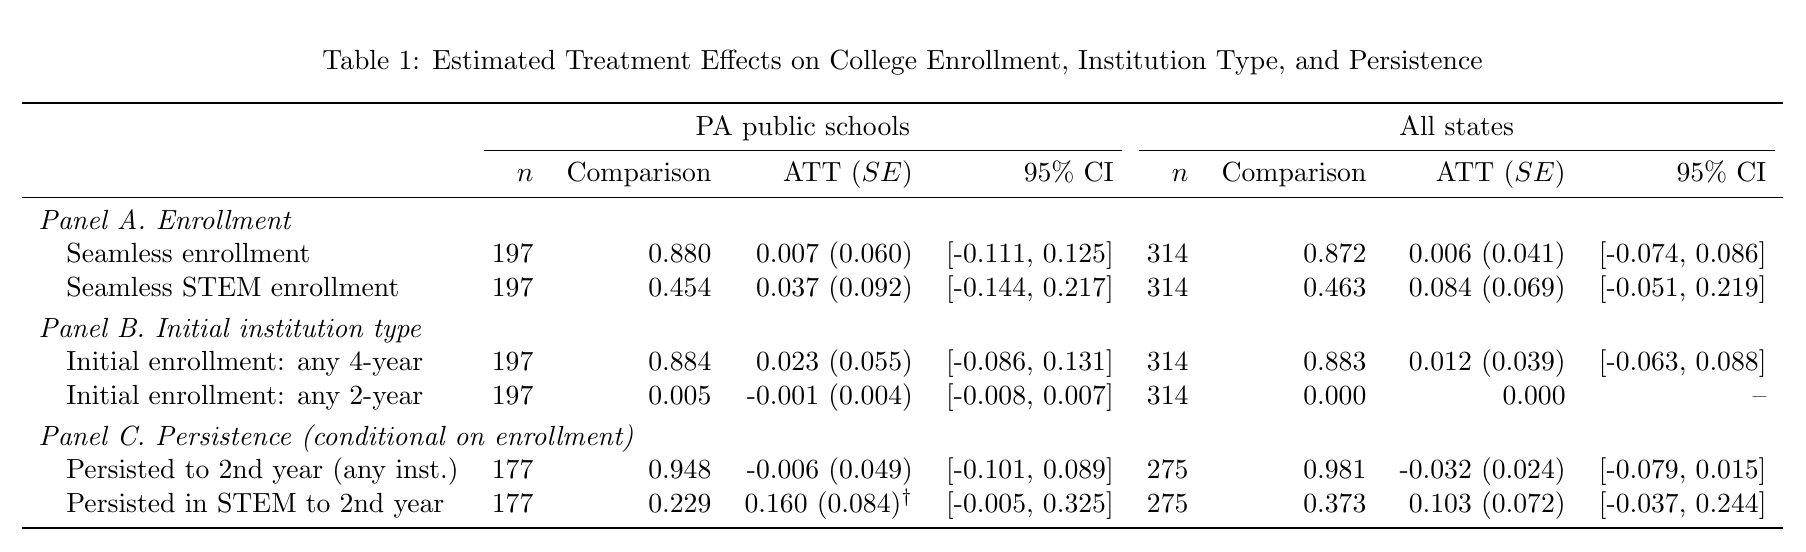
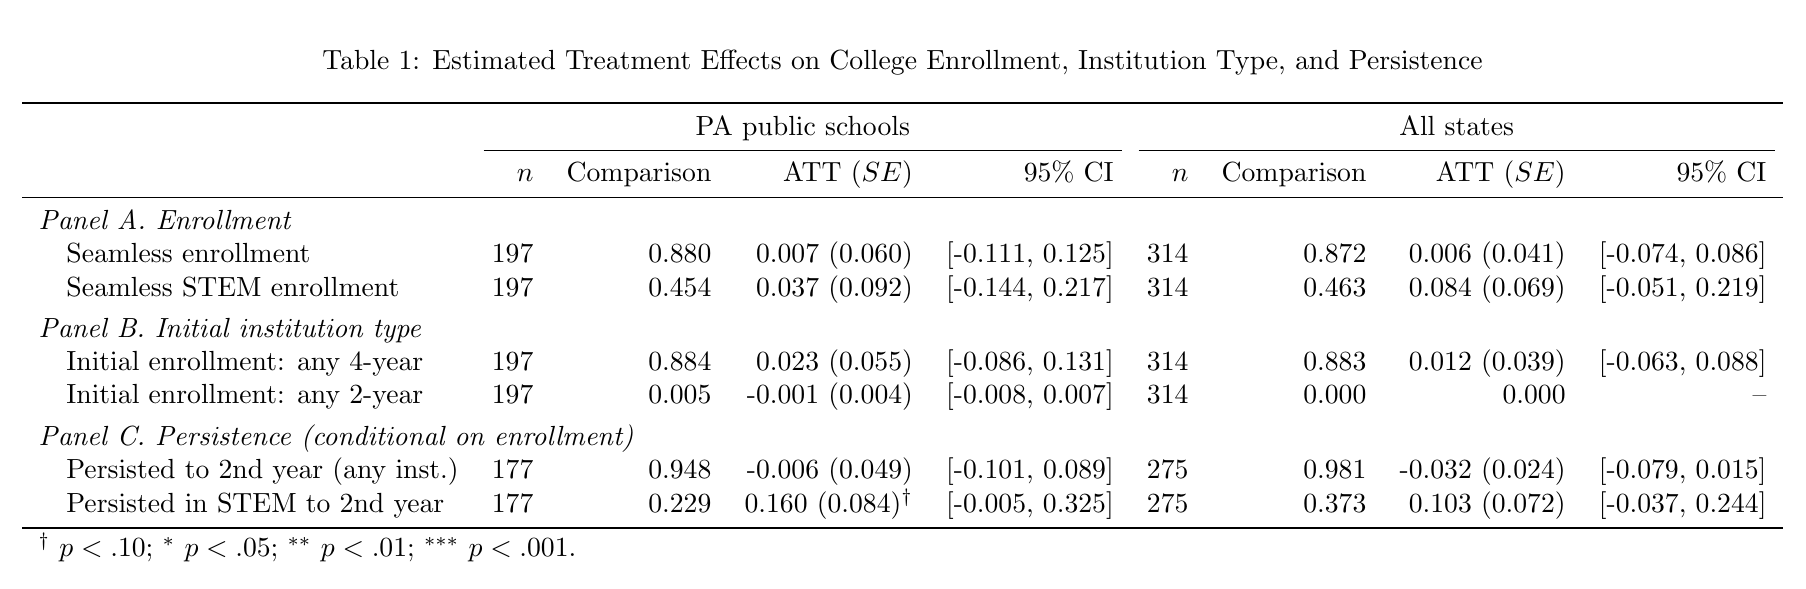
Tables: add SDs to all Table 1 cells, drop Table 2 var ratio, add Table 3 stars legend
- Table 1: every covariate now reports M (SD), including binaries (e.g.,
  Male = 0.528 (0.499)). Bernoulli SD = sqrt(p(1-p)) is informative for
  symmetric reporting and matches the convention readers expect when M
  appears in a table.
- Table 2: drop the matched variance-ratio columns. Caption updated to
  "Standardized Mean Differences Before and After Matching." All 8
  continuous covars passed the 0.5–2.0 threshold anyway, so the column
  was lighting up "--" for binary rows without flagging anything material.
- Table 3: add a significance legend via kableExtra::footnote():
    † p<.10; * p<.05; ** p<.01; *** p<.001
  Significant rows are already starred in the ATT (SE) cell (PA STEM
  persistence Y2 carries † at p=.058).

diff --git a/output/tables/table2_balance.tex b/output/tables/table2_balance.tex
@@ -1,45 +1,45 @@
 \begin{table}[!h]
 \centering
-\caption{\label{tab:balance}Standardized Mean Differences and Variance Ratios Before and After Matching}
+\caption{\label{tab:balance}Standardized Mean Differences Before and After Matching}
 \centering
-\begin{tabular}[t]{lrrrrrr}
+\begin{tabular}[t]{lrrrr}
 \toprule
-\multicolumn{1}{c}{ } & \multicolumn{3}{c}{PA public schools} & \multicolumn{3}{c}{All states} \\
-\cmidrule(l{3pt}r{3pt}){2-4} \cmidrule(l{3pt}r{3pt}){5-7}
- & Unadj. SMD & Matched SMD & Var. ratio & Unadj. SMD & Matched SMD & Var. ratio\\
+\multicolumn{1}{c}{ } & \multicolumn{2}{c}{PA public schools} & \multicolumn{2}{c}{All states} \\
+\cmidrule(l{3pt}r{3pt}){2-3} \cmidrule(l{3pt}r{3pt}){4-5}
+ & Unadj. SMD & Matched SMD & Unadj. SMD & Matched SMD\\
 \midrule
 \addlinespace[0.3em]
-\multicolumn{7}{l}{\textit{Academic preparation}}\\
-\hspace{1em}GPA (4.0 scale) & -0.074 & -0.030 & 1.08 & -0.052 & -0.100 & 1.40\\
-\hspace{1em}PSAT Math & -0.122 & 0.107 & 0.90 & -0.084 & 0.151 & 0.84\\
+\multicolumn{5}{l}{\textit{Academic preparation}}\\
+\hspace{1em}GPA (4.0 scale) & -0.074 & -0.030 & -0.052 & -0.100\\
+\hspace{1em}PSAT Math & -0.122 & 0.107 & -0.084 & 0.151\\
 \addlinespace[0.3em]
-\multicolumn{7}{l}{\textit{Program participation}}\\
-\hspace{1em}Received program stipend & 0.169 & -0.009 & -- & 0.235 & -0.010 & --\\
-\hspace{1em}Negative school experience & -0.005 & -0.058 & -- & 0.003 & -0.026 & --\\
+\multicolumn{5}{l}{\textit{Program participation}}\\
+\hspace{1em}Received program stipend & 0.169 & -0.009 & 0.235 & -0.010\\
+\hspace{1em}Negative school experience & -0.005 & -0.058 & 0.003 & -0.026\\
 \addlinespace[0.3em]
-\multicolumn{7}{l}{\textit{Demographics}}\\
-\hspace{1em}Male & 0.207 & 0.069 & -- & 0.077 & 0.004 & --\\
-\hspace{1em}Household size & -0.013 & 0.171 & 0.77 & 0.084 & 0.156 & 0.86\\
-\hspace{1em}Racially marginalized & 0.039 & -0.019 & -- & 0.052 & -0.014 & --\\
-\hspace{1em}Bi/multi-racial & 0.007 & 0.005 & -- & 0.058 & -0.000 & --\\
-\hspace{1em}Disability disclosed & 0.044 & -0.028 & -- & 0.061 & 0.022 & --\\
+\multicolumn{5}{l}{\textit{Demographics}}\\
+\hspace{1em}Male & 0.207 & 0.069 & 0.077 & 0.004\\
+\hspace{1em}Household size & -0.013 & 0.171 & 0.084 & 0.156\\
+\hspace{1em}Racially marginalized & 0.039 & -0.019 & 0.052 & -0.014\\
+\hspace{1em}Bi/multi-racial & 0.007 & 0.005 & 0.058 & -0.000\\
+\hspace{1em}Disability disclosed & 0.044 & -0.028 & 0.061 & 0.022\\
 \addlinespace[0.3em]
-\multicolumn{7}{l}{\textit{School locale}}\\
-\hspace{1em}Urban locale & 0.021 & -0.012 & -- & 0.040 & 0.047 & --\\
-\hspace{1em}Suburban locale & -0.042 & 0.000 & -- & -0.071 & 0.039 & --\\
-\hspace{1em}Rural locale & -0.006 & 0.002 & -- & 0.012 & -0.056 & --\\
+\multicolumn{5}{l}{\textit{School locale}}\\
+\hspace{1em}Urban locale & 0.021 & -0.012 & 0.040 & 0.047\\
+\hspace{1em}Suburban locale & -0.042 & 0.000 & -0.071 & 0.039\\
+\hspace{1em}Rural locale & -0.006 & 0.002 & 0.012 & -0.056\\
 \addlinespace[0.3em]
-\multicolumn{7}{l}{\textit{Grade in program}}\\
-\hspace{1em}9th grade & 0.011 & 0.009 & -- & 0.012 & -0.000 & --\\
-\hspace{1em}10th grade & -0.000 & 0.044 & -- & -0.041 & -0.047 & --\\
-\hspace{1em}12th grade & 0.039 & 0.014 & -- & 0.032 & 0.021 & --\\
+\multicolumn{5}{l}{\textit{Grade in program}}\\
+\hspace{1em}9th grade & 0.011 & 0.009 & 0.012 & -0.000\\
+\hspace{1em}10th grade & -0.000 & 0.044 & -0.041 & -0.047\\
+\hspace{1em}12th grade & 0.039 & 0.014 & 0.032 & 0.021\\
 \addlinespace[0.3em]
-\multicolumn{7}{l}{\textit{School characteristics (PA only)}}\\
-\hspace{1em}Enrollment (count) & 0.007 & 0.102 & 1.08 & -- & -- & --\\
-\hspace{1em}Economically disadvantaged & -0.104 & -0.097 & 0.88 & -- & -- & --\\
-\hspace{1em}English learners & 0.097 & -0.016 & 0.86 & -- & -- & --\\
-\hspace{1em}Special education & -0.444 & -0.070 & 0.86 & -- & -- & --\\
-\hspace{1em}White students & -0.049 & 0.120 & 1.02 & -- & -- & --\\
+\multicolumn{5}{l}{\textit{School characteristics (PA only)}}\\
+\hspace{1em}Enrollment (count) & 0.007 & 0.102 & -- & --\\
+\hspace{1em}Economically disadvantaged & -0.104 & -0.097 & -- & --\\
+\hspace{1em}English learners & 0.097 & -0.016 & -- & --\\
+\hspace{1em}Special education & -0.444 & -0.070 & -- & --\\
+\hspace{1em}White students & -0.049 & 0.120 & -- & --\\
 \bottomrule
 \end{tabular}
 \end{table}

diff --git a/output/tables/table1_descriptives.tex b/output/tables/table1_descriptives.tex
@@ -14,25 +14,25 @@
 \hspace{1em}PSAT Math & 692.46 (73.56) & 687.35 (72.63) & 697.47 (67.87) & 697.74 (70.11)\\
 \addlinespace[0.3em]
 \multicolumn{5}{l}{\textit{Program participation}}\\
-\hspace{1em}Received program stipend & 0.222 & 0.231 & 0.306 & 0.315\\
-\hspace{1em}Negative school experience & 0.044 & 0.103 & 0.064 & 0.094\\
+\hspace{1em}Received program stipend & 0.222 (0.416) & 0.231 (0.422) & 0.306 (0.461) & 0.315 (0.465)\\
+\hspace{1em}Negative school experience & 0.044 (0.205) & 0.103 (0.304) & 0.064 (0.244) & 0.094 (0.292)\\
 \addlinespace[0.3em]
 \multicolumn{5}{l}{\textit{Demographics}}\\
-\hspace{1em}Male & 0.528 & 0.458 & 0.479 & 0.475\\
+\hspace{1em}Male & 0.528 (0.499) & 0.458 (0.498) & 0.479 (0.500) & 0.475 (0.499)\\
 \hspace{1em}Household size & 4.22 (1.06) & 4.22 (1.07) & 4.18 (1.17) & 4.16 (1.07)\\
-\hspace{1em}Racially marginalized & 0.097 & 0.116 & 0.140 & 0.154\\
-\hspace{1em}Bi/multi-racial & 0.042 & 0.037 & 0.025 & 0.025\\
-\hspace{1em}Disability disclosed & 0.029 & 0.058 & 0.043 & 0.020\\
+\hspace{1em}Racially marginalized & 0.097 (0.296) & 0.116 (0.320) & 0.140 (0.348) & 0.154 (0.361)\\
+\hspace{1em}Bi/multi-racial & 0.042 (0.200) & 0.037 (0.189) & 0.025 (0.155) & 0.025 (0.155)\\
+\hspace{1em}Disability disclosed & 0.029 (0.167) & 0.058 (0.233) & 0.043 (0.203) & 0.020 (0.141)\\
 \addlinespace[0.3em]
 \multicolumn{5}{l}{\textit{School locale}}\\
-\hspace{1em}Urban locale & 0.159 & 0.170 & 0.183 & 0.138\\
-\hspace{1em}Suburban locale & 0.768 & 0.761 & 0.730 & 0.712\\
-\hspace{1em}Rural locale & 0.072 & 0.069 & 0.087 & 0.151\\
+\hspace{1em}Urban locale & 0.159 (0.366) & 0.170 (0.376) & 0.183 (0.386) & 0.138 (0.344)\\
+\hspace{1em}Suburban locale & 0.768 (0.422) & 0.761 (0.427) & 0.730 (0.444) & 0.712 (0.453)\\
+\hspace{1em}Rural locale & 0.072 (0.259) & 0.069 (0.254) & 0.087 (0.282) & 0.151 (0.358)\\
 \addlinespace[0.3em]
 \multicolumn{5}{l}{\textit{Grade in program}}\\
-\hspace{1em}9th grade & 0.028 & 0.019 & 0.017 & 0.017\\
-\hspace{1em}10th grade & 0.306 & 0.262 & 0.281 & 0.328\\
-\hspace{1em}12th grade & 0.083 & 0.069 & 0.066 & 0.045\\
+\hspace{1em}9th grade & 0.028 (0.164) & 0.019 (0.135) & 0.017 (0.127) & 0.017 (0.127)\\
+\hspace{1em}10th grade & 0.306 (0.461) & 0.262 (0.439) & 0.281 (0.449) & 0.328 (0.469)\\
+\hspace{1em}12th grade & 0.083 (0.276) & 0.069 (0.254) & 0.066 (0.248) & 0.045 (0.208)\\
 \addlinespace[0.3em]
 \multicolumn{5}{l}{\textit{School characteristics (PA only)}}\\
 \hspace{1em}Enrollment (count) & 1571.69 (740.37) & 1493.84 (712.58) & -- & --\\

diff --git a/output/tables/table3_impact.tex b/output/tables/table3_impact.tex
@@ -21,5 +21,6 @@
 \hspace{1em}Persisted to 2nd year (any inst.) & 177 & 0.948 & -0.006 (0.049) & {}[-0.101, 0.089] & 275 & 0.981 & -0.032 (0.024) & {}[-0.079, 0.015]\\
 \hspace{1em}Persisted in STEM to 2nd year & 177 & 0.229 & 0.160 (0.084)$^{\dagger}$ & {}[-0.005, 0.325] & 275 & 0.373 & 0.103 (0.072) & {}[-0.037, 0.244]\\
 \bottomrule
+\multicolumn{9}{l}{\rule{0pt}{1em}$^{\dagger}$ $p<.10$; $^{*}$ $p<.05$; $^{**}$ $p<.01$; $^{***}$ $p<.001$.}\\
 \end{tabular}
 \end{table}
